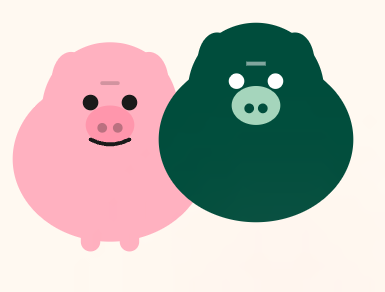
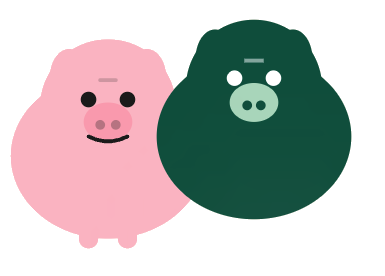
Home: centered layout, feature cards, footer, nav
- Centered content column (max 1100px) with equal side margins
- Feature cards: transparent bg, black border; icons: user, clock, bar-chart, message-circle
- Footer disclaimer at bottom (transparent, gray text)
- Top nav: remove 'make money moves'; Icon: add hand-raised, message-circle
- Pigs image update; equal top/bottom padding

Made-with: Cursor

diff --git a/src/pages/Home.tsx b/src/pages/Home.tsx
@@ -1,25 +1,28 @@
 import React, { useState, useEffect } from "react";
-import { useNavigate } from "react-router-dom";
+import { useNavigate, Link } from "react-router-dom";
 import { useAuth } from "@/contexts/AuthContext";
 import { Icon } from "@/components/ui/Icon";
 
-/** Floating dollar badge — smaller and more subtle per mock */
-const FloatingDollar: React.FC<{ style?: React.CSSProperties; delay?: number }> = ({ style, delay = 0 }) => (
-  <div style={{
-    width: "26px", height: "26px", borderRadius: "50%",
-    backgroundColor: "rgba(180, 218, 190, 0.32)",
-    border: "1px solid rgba(140, 190, 155, 0.28)",
-    display: "flex", alignItems: "center", justifyContent: "center",
-    fontSize: "11px", fontWeight: 700, color: "#2a6040",
-    fontFamily: "var(--font-sans)",
-    animation: `floatY 3.2s ease-in-out infinite ${delay}ms`,
-    position: "absolute",
-    opacity: 0.78,
-    ...style,
-  }}>
-    $
-  </div>
-);
+/** Floating dollar badge — green or pink variant */
+const FloatingDollar: React.FC<{ style?: React.CSSProperties; delay?: number; variant?: "green" | "pink" }> = ({ style, delay = 0, variant = "green" }) => {
+  const isPink = variant === "pink";
+  return (
+    <div style={{
+      width: "26px", height: "26px", borderRadius: "50%",
+      backgroundColor: isPink ? "rgba(224, 138, 154, 0.36)" : "rgba(180, 218, 190, 0.32)",
+      border: isPink ? "1px solid rgba(212, 83, 74, 0.3)" : "1px solid rgba(140, 190, 155, 0.28)",
+      display: "flex", alignItems: "center", justifyContent: "center",
+      fontSize: "11px", fontWeight: 700, color: isPink ? "#8b3a4a" : "#2a6040",
+      fontFamily: "var(--font-sans)",
+      animation: `floatY 3.2s ease-in-out infinite ${delay}ms`,
+      position: "absolute",
+      opacity: 0.78,
+      ...style,
+    }}>
+      $
+    </div>
+  );
+};
 
 /** Decorative ring — reduced opacity per mock */
 const DecorativeRing: React.FC<{ size: number; style?: React.CSSProperties }> = ({ size, style }) => (
@@ -128,18 +131,18 @@ export const Home: React.FC = () => {
   return (
     <>
       {showTransition && !isLoggedIn && <GetStartedTransition onDone={goToOnboarding} />}
-      <div className="page-enter" style={{ minHeight: "calc(100vh - var(--nav-height))", display: "flex", flexDirection: "column" }}>
+      <div className="page-enter" style={{ minHeight: "calc(100vh - var(--nav-height))", display: "flex", flexDirection: "column", paddingTop: "48px", paddingBottom: "48px" }}>
 
-      {/* ── Hero section ─────────────────────────────── */}
+      {/* ── Hero section (centered column, equal side margins) ── */}
       <div style={{
-        flex: 1,
         display: "flex",
         alignItems: "center",
         maxWidth: "1100px",
         margin: "0 auto",
-        padding: "32px 40px 40px",
+        padding: "32px 40px 32px",
         gap: "32px",
         width: "100%",
+        boxSizing: "border-box",
       }}>
 
         {/* Left: headline + copy + CTA */}
@@ -223,29 +226,54 @@ export const Home: React.FC = () => {
                 Go to Dashboard
               </button>
             ) : (
-              <button
-                onClick={handleGetStarted}
-                style={{
-                  display: "inline-flex",
-                  alignItems: "center",
-                  gap: "8px",
-                  padding: "14px 30px",
-                  backgroundColor: "var(--color-primary)",
-                  color: "#fff",
-                  border: "2px solid var(--color-primary)",
-                  borderRadius: "var(--radius-lg)",
-                  fontSize: "var(--text-base)",
-                  fontWeight: 600,
-                  fontFamily: "var(--font-sans)",
-                  cursor: "pointer",
-                  letterSpacing: "0.005em",
-                  transition: "background-color var(--duration-fast) var(--ease-out), transform var(--duration-fast) var(--ease-out), filter var(--duration-fast)",
-                }}
-                onMouseEnter={(e) => { (e.currentTarget as HTMLElement).style.filter = "brightness(0.97)"; (e.currentTarget as HTMLElement).style.transform = "translateY(-1px)"; }}
-                onMouseLeave={(e) => { (e.currentTarget as HTMLElement).style.filter = "none"; (e.currentTarget as HTMLElement).style.transform = "translateY(0)"; }}
-              >
-                Get started
-              </button>
+              <div style={{ display: "flex", flexWrap: "wrap", gap: "12px", alignItems: "center" }}>
+                <button
+                  onClick={handleGetStarted}
+                  style={{
+                    display: "inline-flex",
+                    alignItems: "center",
+                    gap: "8px",
+                    padding: "14px 30px",
+                    backgroundColor: "var(--color-primary)",
+                    color: "#fff",
+                    border: "2px solid var(--color-primary)",
+                    borderRadius: "var(--radius-lg)",
+                    fontSize: "var(--text-base)",
+                    fontWeight: 600,
+                    fontFamily: "var(--font-sans)",
+                    cursor: "pointer",
+                    letterSpacing: "0.005em",
+                    transition: "background-color var(--duration-fast) var(--ease-out), transform var(--duration-fast) var(--ease-out), filter var(--duration-fast)",
+                  }}
+                  onMouseEnter={(e) => { (e.currentTarget as HTMLElement).style.filter = "brightness(0.97)"; (e.currentTarget as HTMLElement).style.transform = "translateY(-1px)"; }}
+                  onMouseLeave={(e) => { (e.currentTarget as HTMLElement).style.filter = "none"; (e.currentTarget as HTMLElement).style.transform = "translateY(0)"; }}
+                >
+                  Get started - it's free
+                </button>
+                <Link
+                  to="/library"
+                  style={{
+                    display: "inline-flex",
+                    alignItems: "center",
+                    padding: "14px 30px",
+                    backgroundColor: "var(--color-bg)",
+                    color: "var(--color-text)",
+                    border: "2px solid var(--color-black)",
+                    borderRadius: "var(--radius-lg)",
+                    fontSize: "var(--text-base)",
+                    fontWeight: 600,
+                    fontFamily: "var(--font-sans)",
+                    cursor: "pointer",
+                    letterSpacing: "0.005em",
+                    textDecoration: "none",
+                    transition: "background-color var(--duration-fast) var(--ease-out), border-color var(--duration-fast), transform var(--duration-fast) var(--ease-out)",
+                  }}
+                  onMouseEnter={(e) => { (e.currentTarget as HTMLElement).style.backgroundColor = "var(--color-surface-hover)"; (e.currentTarget as HTMLElement).style.transform = "translateY(-1px)"; }}
+                  onMouseLeave={(e) => { (e.currentTarget as HTMLElement).style.backgroundColor = "var(--color-bg)"; (e.currentTarget as HTMLElement).style.transform = "translateY(0)"; }}
+                >
+                  Browse lessons
+                </Link>
+              </div>
             )}
           </div>
         </div>
@@ -272,94 +300,108 @@ export const Home: React.FC = () => {
             </svg>
           </div>
 
-          <FloatingDollar style={{ left: "6%", top: "24%" }} delay={0} />
-          <FloatingDollar style={{ left: "18%", bottom: "20%" }} delay={350} />
-          <FloatingDollar style={{ left: "32%", bottom: "6%" }} delay={700} />
-          <FloatingDollar style={{ right: "4%", top: "12%" }} delay={150} />
-          <FloatingDollar style={{ left: "12%", top: "8%" }} delay={200} />
-          <FloatingDollar style={{ left: "24%", top: "14%" }} delay={500} />
-          <FloatingDollar style={{ right: "14%", top: "28%" }} delay={400} />
-          <FloatingDollar style={{ right: "22%", bottom: "14%" }} delay={600} />
-          <FloatingDollar style={{ left: "8%", bottom: "28%" }} delay={250} />
-          <FloatingDollar style={{ right: "8%", bottom: "8%" }} delay={550} />
+          {/* Floating $ circles — half as many, green/pink mix around the pigs */}
+          {(() => {
+            const positions: { pos: React.CSSProperties; delay: number }[] = [
+              { pos: { left: "6%", top: "24%" }, delay: 0 },
+              { pos: { left: "18%", bottom: "20%" }, delay: 350 },
+              { pos: { left: "32%", bottom: "6%" }, delay: 700 },
+              { pos: { right: "4%", top: "12%" }, delay: 150 },
+              { pos: { left: "12%", top: "8%" }, delay: 200 },
+              { pos: { left: "24%", top: "14%" }, delay: 500 },
+              { pos: { right: "14%", top: "28%" }, delay: 400 },
+              { pos: { right: "22%", bottom: "14%" }, delay: 600 },
+              { pos: { left: "8%", bottom: "28%" }, delay: 250 },
+              { pos: { right: "8%", bottom: "8%" }, delay: 550 },
+            ];
+            const variants: ("green" | "pink")[] = [
+              "pink", "green", "green", "pink", "green", "pink", "pink", "green",
+              "green", "pink",
+            ];
+            return positions.map(({ pos, delay: d }, i) => (
+              <FloatingDollar key={i} style={pos} delay={d} variant={variants[i]} />
+            ));
+          })()}
 
-          {/* Two pigs (pink + green) with float animation — 30% larger */}
+          {/* Two pigs with float animation — lighten blend hides black background on cream page */}
           <div style={{ position: "relative", zIndex: 2, marginBottom: "0", animation: "floatY 3.2s ease-in-out infinite" }}>
-            <img src="/wilbur-pigs-together.png" alt="" width={364} height={364} style={{ display: "block", objectFit: "contain" }} />
+            <img
+              src="/wilbur-pigs-together.png"
+              alt=""
+              width={364}
+              height={364}
+              style={{ display: "block", objectFit: "contain", mixBlendMode: "lighten" }}
+            />
           </div>
         </div>
       </div>
 
-      {/* ── Democratizing financial literacy section ────────────────────── */}
-      <div style={{ padding: "0 32px 56px", maxWidth: "560px", margin: "0 auto", width: "100%" }}>
+      {/* ── Feature cards (centered column, equal side margins) ── */}
+      <div style={{ padding: "56px 40px", maxWidth: "1100px", margin: "0 auto", width: "100%", boxSizing: "border-box" }}>
         <div style={{
-          backgroundColor: "var(--color-primary)",
-          borderRadius: "var(--radius-2xl)",
-          padding: "32px 28px 28px",
-          textAlign: "center",
+          display: "grid",
+          gridTemplateColumns: "repeat(auto-fit, minmax(220px, 1fr))",
+          gap: "20px",
+          fontFamily: "var(--font-sans)",
         }}>
-          <h2 style={{
-            fontFamily: "var(--font-serif)",
-            fontSize: "clamp(0.875rem, 1.5vw, 1.125rem)",
-            fontWeight: 700,
-            color: "#fff",
-            marginBottom: "10px",
-            lineHeight: 1.2,
-          }}>
-            Democratizing financial literacy — 100% free
-          </h2>
-          <p style={{
-            fontSize: "var(--text-sm)",
-            color: "rgba(255,255,255,0.72)",
-            maxWidth: "100%",
-            margin: "0 auto 20px",
-            lineHeight: 1.6,
-          }}>
-            Answer a few questions, get a learning path made just for you, and start understanding money in minutes. Takes about 2 minutes. No account needed to start.
-          </p>
-
-          {/* Three separate step modules */}
-          <div style={{
-            display: "grid",
-            gridTemplateColumns: "1fr 1fr 1fr",
-            gap: 10,
-            margin: "0 auto",
-          }}>
-            <div style={{
-              padding: "10px 12px",
-              backgroundColor: "var(--color-bg)",
-              textAlign: "left",
-              borderRadius: "var(--radius-md)",
-              border: "1px solid var(--color-border-light)",
-            }}>
-              <div style={{ fontSize: 10, color: "var(--color-text-muted)", marginBottom: 2, fontFamily: "var(--font-sans)" }}>01</div>
-              <h3 style={{ fontFamily: "var(--font-sans)", fontSize: 13, fontWeight: 700, color: "var(--color-text)", margin: "0 0 4px" }}>Tell us about you</h3>
-              <p style={{ fontFamily: "var(--font-sans)", fontSize: 11, color: "var(--color-text-secondary)", margin: 0, lineHeight: 1.4 }}>Quick questions about your life, goals, and money situation.</p>
+          {[
+            { icon: "user" as const, title: "Actually personalized", description: "Only the topics that matter to your life right now." },
+            { icon: "clock" as const, title: "Bite-sized lessons", description: "5–10 minutes each. Fits in a lunch break." },
+            { icon: "bar-chart" as const, title: "Visuals over text", description: "Charts, simulators, and graphs explain everything." },
+            { icon: "message-circle" as const, title: "AI help, always on", description: "Instant plain-language explanations, any time." },
+          ].map(({ icon, title, description }) => (
+            <div
+              key={title}
+              style={{
+                backgroundColor: "transparent",
+                borderRadius: "var(--radius-lg)",
+                padding: "24px 20px",
+                border: "2px solid var(--color-black)",
+              }}
+            >
+              <div style={{ marginBottom: "12px" }}>
+                <Icon name={icon} size={28} color="var(--color-primary)" strokeWidth={1.8} />
+              </div>
+              <h3 style={{
+                fontFamily: "var(--font-sans)",
+                fontSize: "var(--text-base)",
+                fontWeight: 700,
+                color: "var(--color-text)",
+                marginBottom: "6px",
+                lineHeight: 1.3,
+              }}>
+                {title}
+              </h3>
+              <p style={{
+                fontSize: "var(--text-sm)",
+                color: "var(--color-text-secondary)",
+                lineHeight: 1.5,
+                margin: 0,
+              }}>
+                {description}
+              </p>
             </div>
-            <div style={{
-              padding: "10px 12px",
-              backgroundColor: "var(--color-bg)",
-              textAlign: "left",
-              borderRadius: "var(--radius-md)",
-              border: "1px solid var(--color-border-light)",
-            }}>
-              <div style={{ fontSize: 10, color: "var(--color-text-muted)", marginBottom: 2, fontFamily: "var(--font-sans)" }}>02</div>
-              <h3 style={{ fontFamily: "var(--font-sans)", fontSize: 13, fontWeight: 700, color: "var(--color-text)", margin: "0 0 4px" }}>Get your path</h3>
-              <p style={{ fontFamily: "var(--font-sans)", fontSize: 11, color: "var(--color-text-secondary)", margin: 0, lineHeight: 1.4 }}>We'll show you only what's relevant to you right now.</p>
-            </div>
-            <div style={{
-              padding: "10px 12px",
-              backgroundColor: "var(--color-bg)",
-              textAlign: "left",
-              borderRadius: "var(--radius-md)",
-              border: "1px solid var(--color-border-light)",
-            }}>
-              <div style={{ fontSize: 10, color: "var(--color-text-muted)", marginBottom: 2, fontFamily: "var(--font-sans)" }}>03</div>
-              <h3 style={{ fontFamily: "var(--font-sans)", fontSize: 13, fontWeight: 700, color: "var(--color-text)", margin: "0 0 4px" }}>Learn & grow</h3>
-              <p style={{ fontFamily: "var(--font-sans)", fontSize: 11, color: "var(--color-text-secondary)", margin: 0, lineHeight: 1.4 }}>Visual lessons, interactive tools, AI help when you need it.</p>
-            </div>
-          </div>
+          ))}
         </div>
+      </div>
+
+      {/* Footer disclaimer (centered column, equal side margins) */}
+      <div style={{
+        padding: "24px 40px 32px",
+        maxWidth: "1100px",
+        margin: "0 auto",
+        width: "100%",
+        boxSizing: "border-box",
+        display: "flex",
+        flexWrap: "wrap",
+        justifyContent: "space-between",
+        gap: "12px",
+        fontSize: "var(--text-xs)",
+        color: "var(--color-text-muted)",
+        fontFamily: "var(--font-sans)",
+      }}>
+        <span>© 2026 Wilbur. Educational content only — not financial advice.</span>
+        <span>Consult a licensed financial professional for advice specific to your situation.</span>
       </div>
     </div>
     </>

diff --git a/src/components/ui/Icon.tsx b/src/components/ui/Icon.tsx
@@ -34,7 +34,9 @@ export type IconName =
   | "plus"
   | "eye"
   | "eye-off"
-  | "log-out";
+  | "log-out"
+  | "hand-raised"
+  | "message-circle";
 
 interface IconProps {
   name: IconName;
@@ -216,6 +218,19 @@ const PATHS: Record<IconName, React.ReactNode> = {
     <>
       <path d="M9 21H5a2 2 0 0 1-2-2V5a2 2 0 0 1 2-2h4" stroke="currentColor" strokeLinecap="round" strokeLinejoin="round" />
       <path d="M16 17l5-5-5-5M21 12H9" stroke="currentColor" strokeLinecap="round" strokeLinejoin="round" />
+    </>
+  ),
+  "hand-raised": (
+    <>
+      <circle cx="12" cy="6" r="3.5" stroke="currentColor" />
+      <path d="M12 10v8" stroke="currentColor" strokeLinecap="round" />
+      <path d="M12 10l-4-5" stroke="currentColor" strokeLinecap="round" strokeLinejoin="round" />
+    </>
+  ),
+  "message-circle": (
+    <>
+      <circle cx="12" cy="11" r="7" stroke="currentColor" strokeLinecap="round" strokeLinejoin="round" />
+      <path d="M5 16L2 21l5-3z" stroke="currentColor" strokeLinecap="round" strokeLinejoin="round" fill="none" />
     </>
   ),
 };
